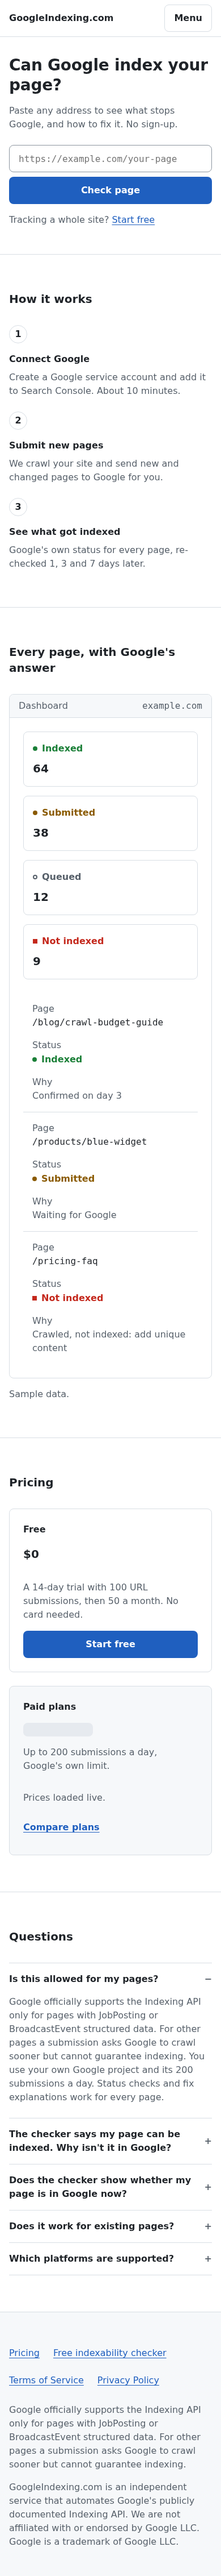
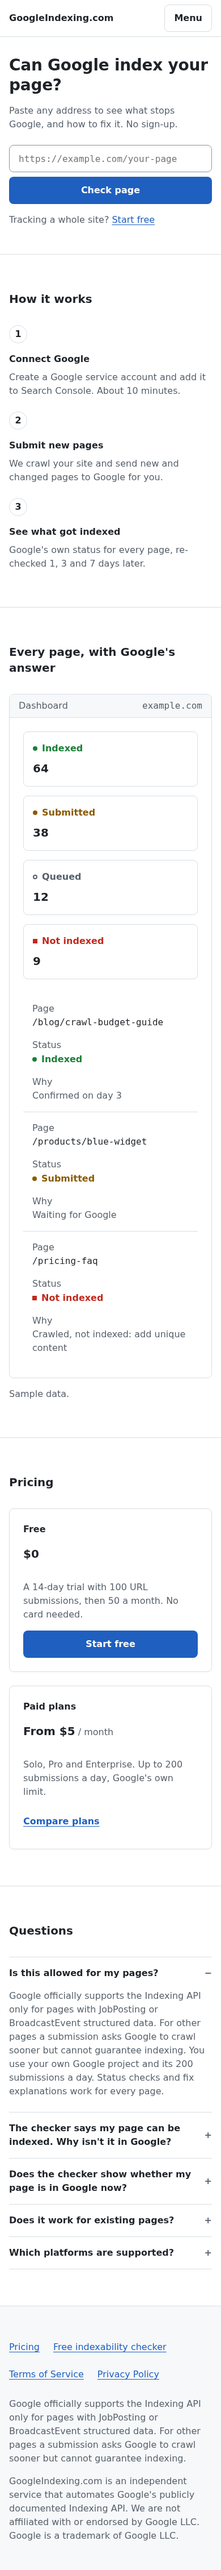
docs(design): Mockup C example plan prices (Solo $5, Pro $20, Enterprise $69) from launch kit
Marked on the page and in the README as example values; the real build loads them live.

diff --git a/docs/design/mockups/c/pricing.html b/docs/design/mockups/c/pricing.html
@@ -35,37 +35,50 @@
         <p class="muted">No card needed.</p>
       </div>
 
-      <div class="panel plan" aria-busy="true" aria-label="Paid plan, loaded live">
-        <span class="skel h24 w60" aria-hidden="true"></span>
-        <span class="skel h24 w40" aria-hidden="true"></span>
-        <div aria-hidden="true"><span class="skel w80"></span><span class="skel w60"></span><span class="skel w80"></span></div>
-        <span class="btn" aria-hidden="true" style="background:var(--surface);border-color:var(--border)"></span>
-        <p class="live-tag">Loaded live</p>
+      <div class="panel plan">
+        <h2>Solo</h2>
+        <p class="price">$5<span class="muted" style="font-size:var(--fs-3);font-weight:400"> / month</span></p>
+        <ul>
+          <li>Up to 200 URL submissions a day</li>
+          <li>Scheduled crawls and automatic submission</li>
+          <li>Index status checked with Google</li>
+        </ul>
+        <a class="btn btn-secondary" href="signup.html?plan=solo">Choose Solo</a>
+        <p class="muted">Verify email, then pay securely.</p>
       </div>
-      <div class="panel plan" aria-busy="true" aria-label="Paid plan, loaded live">
-        <span class="skel h24 w60" aria-hidden="true"></span>
-        <span class="skel h24 w40" aria-hidden="true"></span>
-        <div aria-hidden="true"><span class="skel w80"></span><span class="skel w60"></span><span class="skel w80"></span></div>
-        <span class="btn" aria-hidden="true" style="background:var(--surface);border-color:var(--border)"></span>
-        <p class="live-tag">Loaded live</p>
+      <div class="panel plan">
+        <h2>Pro</h2>
+        <p class="price">$20<span class="muted" style="font-size:var(--fs-3);font-weight:400"> / month</span></p>
+        <ul>
+          <li>Up to 200 URL submissions a day</li>
+          <li>Scheduled crawls and automatic submission</li>
+          <li>Index status checked with Google</li>
+        </ul>
+        <a class="btn btn-secondary" href="signup.html?plan=pro">Choose Pro</a>
+        <p class="muted">Verify email, then pay securely.</p>
       </div>
-      <div class="panel plan" aria-busy="true" aria-label="Paid plan, loaded live">
-        <span class="skel h24 w60" aria-hidden="true"></span>
-        <span class="skel h24 w40" aria-hidden="true"></span>
-        <div aria-hidden="true"><span class="skel w80"></span><span class="skel w60"></span><span class="skel w80"></span></div>
-        <span class="btn" aria-hidden="true" style="background:var(--surface);border-color:var(--border)"></span>
-        <p class="live-tag">Loaded live</p>
+      <div class="panel plan">
+        <h2>Enterprise</h2>
+        <p class="price">$69<span class="muted" style="font-size:var(--fs-3);font-weight:400"> / month</span></p>
+        <ul>
+          <li>Up to 200 URL submissions a day</li>
+          <li>Scheduled crawls and automatic submission</li>
+          <li>Index status checked with Google</li>
+        </ul>
+        <a class="btn btn-secondary" href="signup.html?plan=enterprise">Choose Enterprise</a>
+        <p class="muted">Verify email, then pay securely.</p>
       </div>
     </div>
+    <p class="muted mt3">Example prices for this mockup. The real page loads plan names and prices live.</p>
   </div>
 </section>
 
 <section class="section" aria-labelledby="q-h">
-  <div class="wrap" style="max-width:760px">
+  <div class="wrap"><div style="max-width:760px">
     <h2 id="q-h">About the daily limit</h2>
     <p class="muted mt1">Google allows 200 submissions a day per Google Cloud project, and the project is yours. Every paid plan can use all of it. Sites in one account share it.</p>
     <p class="muted">Annual billing with two months free: <a href="mailto:sales@example.com">contact us</a>.</p>
-  </div>
+  </div></div>
 </section>
 
 </main>

diff --git a/docs/design/mockups/c/index.html b/docs/design/mockups/c/index.html
@@ -78,11 +78,10 @@
         <p class="muted">A 14-day trial with 100 URL submissions, then 50 a month. No card needed.</p>
         <a class="btn btn-primary" href="signup.html?plan=trial">Start free</a>
       </div>
-      <div class="panel panel-muted plan" aria-describedby="paid-live">
+      <div class="panel plan">
         <h3>Paid plans</h3>
-        <span class="skel h24 w40" aria-hidden="true"></span>
-        <p class="muted">Up to 200 submissions a day, Google's own limit.</p>
-        <p id="paid-live" class="live-tag">Prices loaded live.</p>
+        <p class="price">From $5<span class="muted" style="font-size:var(--fs-3);font-weight:400"> / month</span></p>
+        <p class="muted">Solo, Pro and Enterprise. Up to 200 submissions a day, Google's own limit.</p>
         <a class="link-arrow" href="pricing.html">Compare plans</a>
       </div>
     </div>

diff --git a/docs/design/mockups/c/README.md b/docs/design/mockups/c/README.md
@@ -9,7 +9,7 @@ Static HTML plus `shared.css` and `shared.js`. It makes no external requests: no
 | `index.html` | Five sections: checker hero, how it works, product screenshot, pricing summary, FAQ. Then the footer. |
 | `checker-result.html` | A blocked result with a fix for each check, then one "Start free" carrying `?url=` |
 | `signup.html` | Continue with Google first, then email and password |
-| `pricing.html` | The Free plan in full; paid plans as "Loaded live" skeleton cards |
+| `pricing.html` | Free, Solo, Pro and Enterprise, using example prices (see below) |
 | `dashboard.html` | Status totals, recent pages, today's submissions out of 200 |
 | `crawl-index.html` | Status filter, priority select, row selection (cleared whenever the filter changes), Submit selected |
 | `sites.html` | Site summary, add a site (limited by the plan), Google connection |
@@ -56,7 +56,7 @@ Every status label is a dot or square plus a text label, so meaning never depend
 | Each fact once: trial line once, Indexing API caveat only in FAQ + footer | ✅ "14-day trial" ×1 (pricing summary). "JobPosting" ×2 (FAQ and footer). |
 | One primary CTA per section, "Start free" ≤ 3 on the homepage | ✅ Primary buttons per section: `[1, 0, 0, 1, 0]`. "Start free" ×3: header (secondary), hero link, Free plan. |
 | No engineering-feature cards; benefits only | ✅ No retries, locks, Playwright or streams |
-| Pricing: real structure, no `{{tokens}}` in view | ✅ The Free plan is real. Paid cards are skeletons labelled "Loaded live" with `aria-busy`. No `{{` anywhere in the markup. |
+| Pricing: real structure, no `{{tokens}}` in view | ✅ Real plan cards with example prices (below). No `{{` anywhere in the markup. |
 | Copy cut by at least half vs A | ✅ Homepage `main` text: A 1,126 words, C 312 words (28%). Facts come from `docs/design/content.json`. |
 | AA contrast | ✅ Every visible text node is computed against its effective background: 0 failures |
 | 44px targets | ✅ Every button, input, select, summary and non-inline link is at least 44×44. Inline links in sentences fall under the WCAG 2.5.8 inline exception. Checkboxes sit in a 48px label hit area. |
@@ -70,6 +70,6 @@ Every status label is a dot or square plus a text label, so meaning never depend
 
 ## Notes for implementation
 
-- The paid plan cards render from `/payments/public-subscription-plans`, as today. The skeleton is the loading state, not a design for missing data.
+- **Prices are example values.** Solo $5, Pro $20 and Enterprise $69 a month come from `docs/launch/launch-kit.md`. The real build loads plan names, prices and limits live from `/payments/public-subscription-plans`, as today, and never hardcodes them. The homepage's "From $5" is the lowest live monthly price. The pricing page also says the prices are examples.
 - The checker CTA keeps `?plan=trial&url=…` (R3M-T07).
 - Signup matches R3M-T06: Google first, email and password only.
